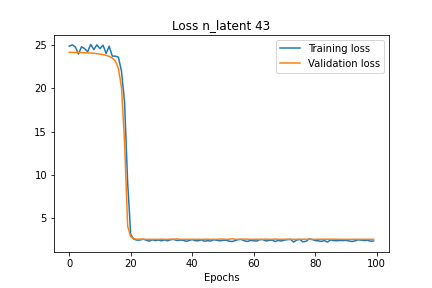
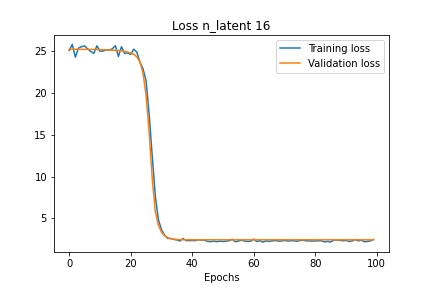
git push

diff --git a/spender/saved_model/inspect.py b/spender/saved_model/inspect.py
@@ -11,7 +11,7 @@ model_loaded=checkpoint['model']
 np.savetxt('./generate_latent_2/losses.txt',np.array(losses))
 """
 
-n_latent=6
+n_latent=16
 
 
 ### Load and visualize losses ###
@@ -20,6 +20,7 @@ losses=np.loadtxt('./generate_latent_2/latent_'+str(n_latent)+'/losses.txt')
 
 print(np.min(losses[:,1]))
 
+"""
 #plot losses
 epochs=range(len(losses[:,0]))
 plt.plot(epochs[:],losses[:,0],label='Training loss')
@@ -30,7 +31,7 @@ plt.legend()
 #plt.ylim(0,5)
 #plt.savefig('./generate_latent_2/latent_16/losses.png')
 plt.show()
-
+"""
 
 
 ### load and visualize percentiles and latents###
@@ -74,8 +75,9 @@ for j in np.arange(1,10): #percentiles go from 10% to 90%
     plt.xlabel('Time percentile '+str(j*10)+' real (Gyrs)')
     plt.ylabel('Time percentile '+str(j*10)+' predicted (Gyrs)')
     plt.show()
+    
 """
-"""  
+ 
 
 
 for j in range(n_latent):
@@ -85,4 +87,4 @@ for j in range(n_latent):
     plt.ylabel('N')
     plt.show()
     
-"""
+
